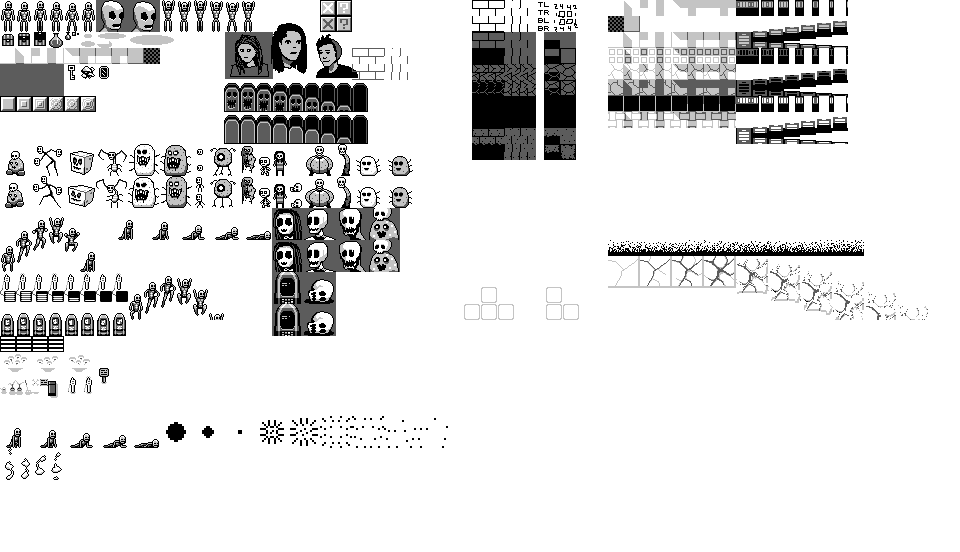
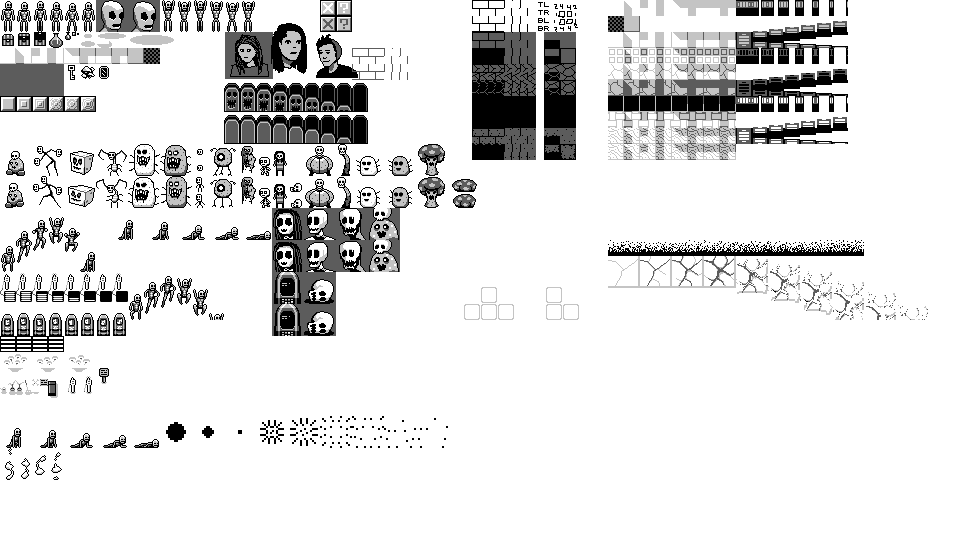
new enemy type

Changed region(s): [[0.625, 0.2156, 0.7812, 0.308], [0.4375, 0.2464, 0.5, 0.4004]]

diff --git a/src/game/enemies.py b/src/game/enemies.py
@@ -98,9 +98,6 @@ class EnemyTemplate:
     def get_hurtbox(self):
         return 5
 
-    def can_spawn_at_level(self, level):
-        return True
-
 
 class FlappumTemplate(EnemyTemplate):
 
@@ -111,9 +108,6 @@ class FlappumTemplate(EnemyTemplate):
         return spriteref.enemy_flappum_all
 
     def get_lunges(self):
-        return True
-
-    def can_spawn_at_level(self, level):
         return True
 
 
@@ -153,9 +147,6 @@ class TrillaTemplate(EnemyTemplate):
 
     def drops_loot(self):
         return False
-
-    def can_spawn_at_level(self, level):
-        return 
 
 
 class TrilliteTemplate(EnemyTemplate):
@@ -267,6 +258,15 @@ class FallenTemplate(EnemyTemplate):
         return spriteref.enemy_the_fallen_all
 
 
+class FungoiTemplate(EnemyTemplate):
+
+    def __init__(self):
+        EnemyTemplate.__init__(self, "Fungoi", spriteref.medium_shadow)
+
+    def get_sprites(self):
+        return spriteref.enemy_fungoi_all
+
+
 class FrogBoss(EnemyTemplate):
 
     def __init__(self):
@@ -292,10 +292,6 @@ class FrogBoss(EnemyTemplate):
     def get_hurtbox(self):
         return 15
 
-    def can_spawn_at_level(self, level):
-        # this boy does not randomly spawn
-        return False
-
 
 TEMPLATE_TRILLA = TrillaTemplate()
 TEMPLATE_TRILLITE = TrilliteTemplate()
@@ -307,6 +303,7 @@ TEMPLATE_MUNCHER_SMALL_ALT = SmallMuncherTemplate(alt=True)
 TEMPLATE_CYCLOI = CycloiTemplate()
 TEMPLATE_DICEL = DicelTemplate()
 TEMPLATE_THE_FALLEN = FallenTemplate()
+TEMPLATE_FUNGOI = FungoiTemplate()
 
 TEMPLATE_FROG_BOSS = FrogBoss()
 
@@ -321,7 +318,7 @@ RAND_SPAWN_TEMPLATES = [TEMPLATE_MUNCHER_SMALL,
 EASY_CAVE_ENEMIES = [TEMPLATE_FLAPPUM]
 HARDER_CAVE_ENEMIES = EASY_CAVE_ENEMIES + [TEMPLATE_MUNCHER_SMALL]
 
-FOREST_ENEMIES = [TEMPLATE_FLAPPUM, TEMPLATE_MUNCHER_SMALL_ALT, TEMPLATE_CYCLOI]
+FOREST_ENEMIES = [TEMPLATE_FLAPPUM, TEMPLATE_MUNCHER_SMALL_ALT, TEMPLATE_FUNGOI]
 HARDER_FOREST_ENEMIES = FOREST_ENEMIES + [TEMPLATE_THE_FALLEN]
 
 

diff --git a/src/worldgen/worldgen.py b/src/worldgen/worldgen.py
@@ -191,6 +191,14 @@ class WorldBlueprint:
         self.save_station = None
         self.locked_doors = []
         self.sensor_doors = []
+        self.global_floor_alt_art = None
+        self.global_wall_alt_art = None
+
+    def width(self):
+        return self.size[0]
+
+    def height(self):
+        return self.size[1]
 
     def get(self, x, y):
         if self.is_valid(x, y):
@@ -209,6 +217,18 @@ class WorldBlueprint:
     def set_alt_art(self, x, y, val):
         if self.is_valid(x, y):
             self.geo_alt_art[x][y] = val
+
+    def get_alt_art(self, x, y):
+        if self.is_valid(x, y):
+            return self.geo_alt_art[x][y]
+        else:
+            return None
+
+    def set_global_wall_alt_art(self, val):
+        self.global_wall_alt_art = val
+
+    def set_global_floor_alt_art(self, val):
+        self.global_floor_alt_art = val
 
     def set_locked_door(self, x, y):
         self.set(x, y, World.DOOR)
@@ -237,6 +257,12 @@ class WorldBlueprint:
                 w.set_geo(x, y, xy_geo)
 
                 alt_art = self.geo_alt_art[x][y]
+                if alt_art is None:
+                    if xy_geo == World.WALL:
+                        alt_art = self.global_wall_alt_art
+                    elif xy_geo == World.FLOOR:
+                        alt_art = self.global_floor_alt_art
+
                 if alt_art is not None:
                     if xy_geo == World.WALL:
                         w.set_wall_type(alt_art, xy=(x, y))

diff --git a/src/game/spriteref.py b/src/game/spriteref.py
@@ -206,6 +206,8 @@ enemy_small_trilla_all = [make(192, 176 + i * 16, 16, 16) for i in range(0, 2)]
 enemy_cyclops_all = [make(208, 144 + i * 32, 32, 32) for i in range(0, 2)]
 enemy_the_fallen_all = [make(240, 144 + i * 32, 16, 32) for i in range(0, 2)]
 enemy_skelekid_all = [make(256, 144 + i * 32, 16, 32) for i in range(0, 2)]
+enemy_fungoi_all = [make(416, 144 + i * 32, 32, 32) for i in range(0, 2)]
+enemy_fungoi_down = [make(448, 176 + i * 16, 32, 16) for i in range(0, 2)]
 
 floaty_guys = [make(192, 144 + i * 16, 16, 16) for i in range(0, 2)]
 
@@ -348,6 +350,8 @@ floors_cracked = [make(608 + i*16, 64, 16, 16) for i in range(0, 8)]
 floors_dark_cracked = [make(608 + i*16, 80, 16, 16) for i in range(0, 8)]
 floors_hole = [make(608 + i*16, 96, 16, 16) for i in range(0, 8)]
 floors_fancy = [make(608 + i*16, 112, 16, 16) for i in range(0, 8)]
+floors_swamp = [make(608 + i*16, 128, 16, 16) for i in range(0, 8)]
+
 
 FLOOR_NORMAL_ID = 0
 FLOOR_QUAD_ID = 1
@@ -355,7 +359,8 @@ FLOOR_CRACKED_ID = 2
 FLOOR_DARK_CRACKED_ID = 3
 FLOOR_HOLE_ID = 4
 FLOOR_FANCY_ID = 5
-_floor_lookup = [floors, floors_alt, floors_cracked, floors_dark_cracked, floors_hole, floors_fancy]
+FLOOR_SWAMP_ID = 6
+_floor_lookup = [floors, floors_alt, floors_cracked, floors_dark_cracked, floors_hole, floors_fancy, floors_swamp]
 
 
 def get_floor(encoding, floor_type_id=FLOOR_NORMAL_ID):

diff --git a/src/worldgen/zones.py b/src/worldgen/zones.py
@@ -104,9 +104,11 @@ class ZoneLoader:
     FLOOR = (255, 255, 255)
     FLOOR_CRACKED = (225, 225, 225)
     FLOOR_FANCY = (205, 205, 205)
+    FLOOR_SWAMP = (185, 185, 185)
     FLOOR_ID_LOOKUP = {FLOOR: spriteref.FLOOR_NORMAL_ID,
                        FLOOR_CRACKED: spriteref.FLOOR_CRACKED_ID,
-                       FLOOR_FANCY: spriteref.FLOOR_FANCY_ID}
+                       FLOOR_FANCY: spriteref.FLOOR_FANCY_ID,
+                       FLOOR_SWAMP: spriteref.FLOOR_SWAMP_ID}
     HOLE = (100, 100, 100)
 
     DOOR = (0, 0, 255)
@@ -512,7 +514,13 @@ class HauntedForestZone1(Zone):
 
     def build_world(self):
         bp, unknowns = ZoneLoader.load_blueprint_from_file(self.get_id(), self.get_file(), self.get_level())
-        print("unknowns={}".format(unknowns))
+        for x in range(0, bp.width()):
+            for y in range(0, bp.height()):
+                if bp.get(x, y) == World.FLOOR and bp.get_alt_art(x, y) is None:
+                    if random.random() < 0.125:
+                        bp.set_alt_art(x, y, spriteref.FLOOR_SWAMP_ID)
+                    elif random.random() < 0.5:
+                        bp.set_alt_art(x, y, spriteref.FLOOR_CRACKED_ID)
         w = bp.build_world()
 
         return w

diff --git a/README.md b/README.md
@@ -3,6 +3,8 @@ babby's first ~~roguelike~~ action rpg
 
 here are the five most recent gifs committed:
 
+![86_fungoi.gif](gifs/86_fungoi.gif?raw=true "86_fungoi")
+
 ![85_zone_selector.gif](gifs/85_zone_selector.gif?raw=true "85_zone_selector")
 
 ![84_tombtown_hello.gif](gifs/84_tombtown_hello.gif?raw=true "84_tombtown_hello")
@@ -10,6 +12,4 @@ here are the five most recent gifs committed:
 ![83_enemies_jump.gif](gifs/83_enemies_jump.gif?raw=true "83_enemies_jump")
 
 ![82_persistent_password.gif](gifs/82_persistent_password.gif?raw=true "82_persistent_password")
-
-![81_items_save.gif](gifs/81_items_save.gif?raw=true "81_items_save")
 
